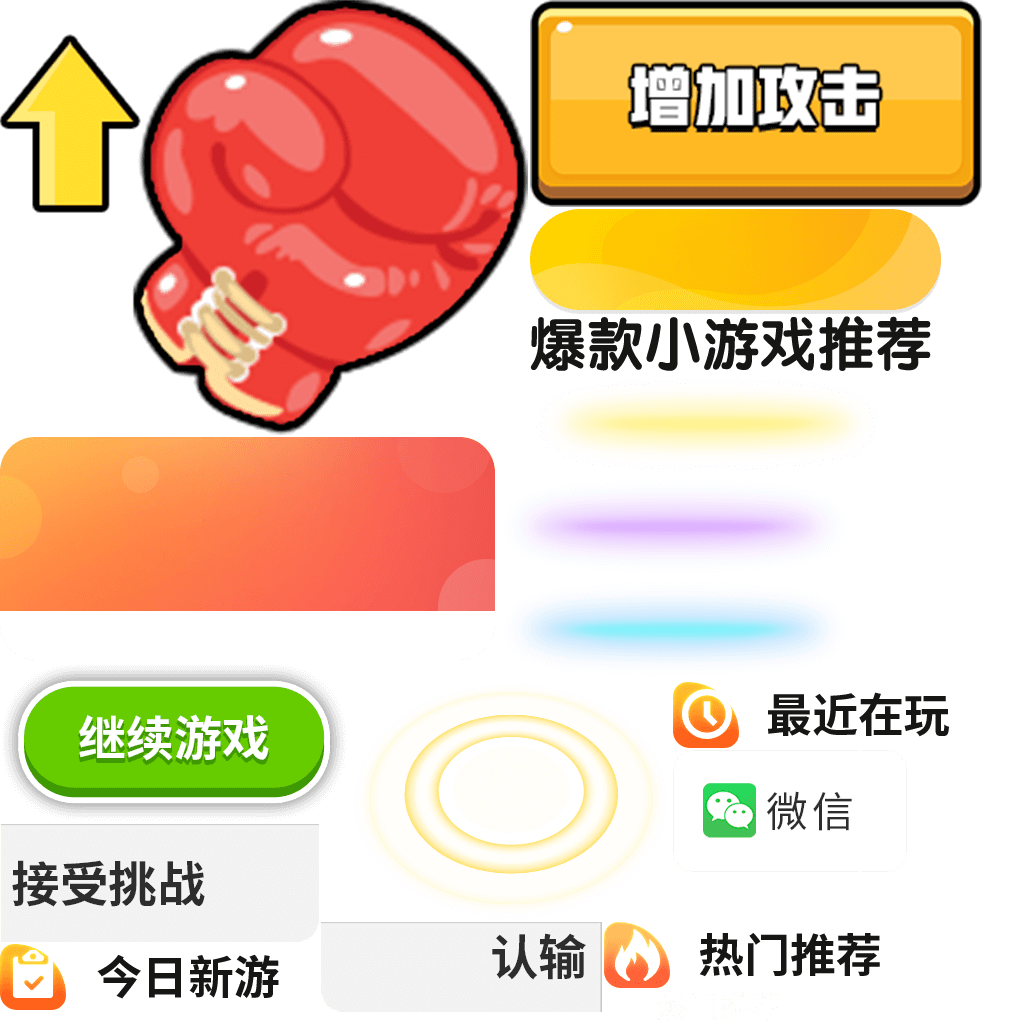
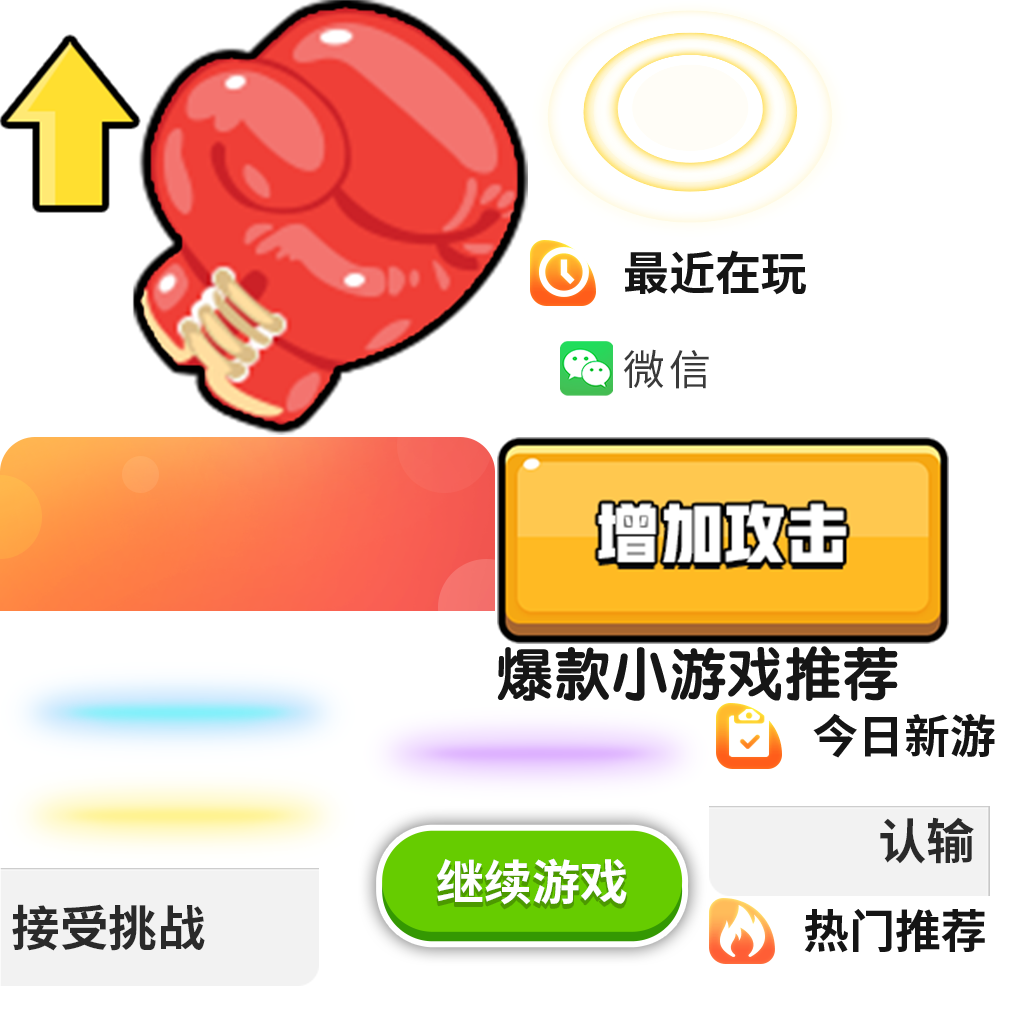
界面的关闭处理--获取不到最后一次打开的界面

diff --git a/src/template/exporter_Special.ts b/src/template/exporter_Special.ts
@@ -1,0 +1,112 @@
+import FGUI_btn_Special from "./export/FGUI_btn_Special";
+import ProductKey from "./ProductKey";
+
+/*
+* @ Author: yangcheng
+* @ Data: 2021-04-30 14:40
+*/
+export default class exporter_Special extends zs.fgui.base {
+
+    static typeDefine = FGUI_btn_Special;
+
+    event = null;
+    owner = null;
+
+    bClickContinue = false;
+    isChildNext = false;
+
+    offsetX = 0;
+    offsetY = 0;
+
+    constructor(component) {
+        super(component);
+        this.owner = component;
+        component.onClick(this, this.onClick);
+    }
+
+    onClick() {
+        switch (this.event) {
+            case "FULL_1":
+                this.Full_1();
+                break
+        }
+    }
+
+    Full_1() {
+        let fullSwitch = ProductKey.zs_full_screen_button_switch;
+        let delayTime = ProductKey.zs_button_delay_time;
+        if (fullSwitch && !this.bClickContinue) {
+            this.owner.touchable = false;
+            this.bClickContinue = true;
+            let moveY = this.owner.y - this.offsetY;
+            // let moveX = this.owner.x - this.offsetX;
+            Laya.Tween.to(this.owner, { y: moveY }, 800, null, Laya.Handler.create(this, () => {
+                this.owner.touchable = true;
+            }), Number(delayTime));
+            // 展示banner
+            if (window.zs["wx"] && window.zs["wx"].banner) {
+                var checkInit = !zs.platform.sync.hasBanner();
+                var bannerTime = checkInit ? 0 : Number(delayTime) / 2;
+                Laya.timer.once(bannerTime, this, function () {
+                    zs.platform.sync.updateBanner({ isWait: false, checkInit: checkInit })
+                })
+            }
+            return;
+        } else {
+            //暂时没有办法解决掉 界面关不掉的问题 跳转没啥用
+            if (this.isChildNext) {
+                zs.core.workflow.childNext();
+            } else {
+                zs.core.workflow.next();
+            }
+        }
+    }
+
+    applyConfig(config) {
+        console.error("config", config)
+
+        //#region  按钮位移不知道为什么不生效 我配置了位置 但是并没有 根据我 加的 数值 改变位置
+        let offsetY = config.offsetY;
+        offsetY != null && offsetY != "" && (this.owner.y += offsetY, this.offsetY = offsetY);
+        let offsetX = config.offsetX;
+        offsetX != null && offsetX != "" && (this.owner.x += offsetX, this.offsetX = offsetX);
+        //#endregion
+
+        //是否是子状态
+        this.isChildNext = config.childNext;
+
+        /**按钮的样式 */
+        let style = config.style;
+        if (style) {
+            //设置按钮的宽高
+            if (style.size && Array.isArray(style.size) && style.size.length >= 2) {
+                this.owner.width = style.size[0];
+                this.owner.height = style.size[1];
+            }
+            //替换icon
+            if (style.icon && style.icon.length > 0) {
+                this.owner.icon1.url = style.icon;
+            }
+            //设置按钮文字
+            if (style.title && style.title.length > 0) {
+                this.owner.title1.text = style.title;
+            }
+            //设置按钮scale 
+            if (style.scale && Array.isArray(style.scale) && style.scale.length >= 2) {
+                this.owner.scaleX = style.scale[0];
+                this.owner.scaleY = style.scale[1];
+            }
+            //字体大小
+
+            //字体颜色
+
+        }
+
+        //按钮需要响应的事件类型
+        if (config.event) {
+            this.event = config.event;
+        }
+        return this;
+    }
+
+}

diff --git a/src/template/workflow.ts b/src/template/workflow.ts
@@ -16,6 +16,7 @@ import exporter_fake_exit from "./exporter_fake_exit";
 import exporter_friend_challenge from "./exporter_friend_challenge";
 import ad_egg from "./ad_egg";
 import exporter_btn_confirm from "./exporter_btn_confirm";
+import exporter_Special from "./exporter_Special";
 
 export default class workflow extends zs.workflow {
 
@@ -39,6 +40,8 @@ export default class workflow extends zs.workflow {
     static readonly exportItem5 = "export_item_5";
     static readonly exportItem6 = "export_item_6";
     static readonly exportItem7 = "export_item_7";
+
+    static readonly special = "special";
 
     exporterPack = "export/export";
     bannerIgnoreList = ['PRODUCT_START.FULL_1', 'PRODUCT_START.FULL_2', 'PRODUCT_PLAY_END.FULL_1', 'PRODUCT_PLAY_END.FULL_2'];
@@ -78,6 +81,8 @@ export default class workflow extends zs.workflow {
         zs.fgui.configs.registeItem(workflow.exportItem5, FGUI_item_5);
         zs.fgui.configs.registeItem(workflow.exportItem6, FGUI_item_6);
         zs.fgui.configs.registeItem(workflow.exportItem7, FGUI_item_7);
+        //
+        zs.fgui.configs.registeBase(workflow.special,exporter_Special);
         // 假消息音效，指定路径没有资源会报错
         exporter_fake_msg.soundShow = "fgui/export/wechat.mp3";
         // 导出错误事件回调

diff --git a/src/template/export/exportBinder.ts b/src/template/export/exportBinder.ts
@@ -21,6 +21,7 @@ import FGUI_btnConfirm from "./FGUI_btnConfirm";
 import FGUI_btnCancel from "./FGUI_btnCancel";
 import FGUI_full_1 from "./FGUI_full_1";
 import FGUI_item_7 from "./FGUI_item_7";
+import FGUI_btn_Special from "./FGUI_btn_Special";
 import FGUI_Side from "./FGUI_Side";
 import FGUI_btn_left_pop from "./FGUI_btn_left_pop";
 import FGUI_hot_game from "./FGUI_hot_game";
@@ -49,6 +50,7 @@ export default class exportBinder {
 		fgui.UIObjectFactory.setExtension(FGUI_btnCancel.URL, FGUI_btnCancel);
 		fgui.UIObjectFactory.setExtension(FGUI_full_1.URL, FGUI_full_1);
 		fgui.UIObjectFactory.setExtension(FGUI_item_7.URL, FGUI_item_7);
+		fgui.UIObjectFactory.setExtension(FGUI_btn_Special.URL, FGUI_btn_Special);
 		fgui.UIObjectFactory.setExtension(FGUI_Side.URL, FGUI_Side);
 		fgui.UIObjectFactory.setExtension(FGUI_btn_left_pop.URL, FGUI_btn_left_pop);
 		fgui.UIObjectFactory.setExtension(FGUI_hot_game.URL, FGUI_hot_game);

diff --git a/src/template/export/FGUI_btn_Special.ts b/src/template/export/FGUI_btn_Special.ts
@@ -1,0 +1,17 @@
+/** This is an automatically generated class by FairyGUI. Please do not modify it. **/
+
+export default class FGUI_btn_Special extends fgui.GButton {
+
+	public icon1:fgui.GLoader;
+	public title1:fgui.GTextField;
+	public static URL:string = "ui://pt2mjy81r6qa96";
+
+	public static createInstance():FGUI_btn_Special {
+		return <FGUI_btn_Special>(fgui.UIPackage.createObject("export", "btn_Special"));
+	}
+
+	protected onConstruct():void {
+		this.icon1 = <fgui.GLoader>(this.getChild("icon1"));
+		this.title1 = <fgui.GTextField>(this.getChild("title1"));
+	}
+}

diff --git a/src/template/export/FGUI_fake_msg.ts b/src/template/export/FGUI_fake_msg.ts
@@ -10,8 +10,6 @@ export default class FGUI_fake_msg extends fgui.GButton {
 	}
 
 	protected onConstruct():void {
-		this.pivotX = 0;
-		this.pivotY = 0;
 		this.desc = <fgui.GTextField>(this.getChild("desc"));
 	}
 }

diff --git a/libs/zs.d.ts b/libs/zs.d.ts
@@ -1437,7 +1437,7 @@ declare module zs.fgui {
         /**
          * 执行配置方法
          */
-        applyConfig(): base;
+        applyConfig(config): base;
     }
     /**
      * FGUI泛型基类

diff --git a/src/ui/layaMaxUI.ts b/src/ui/layaMaxUI.ts
@@ -20,4 +20,4 @@ export module ui.test {
         }
     }
     REG("ui.test.MainEntryUI",MainEntryUI);
-}
+}
